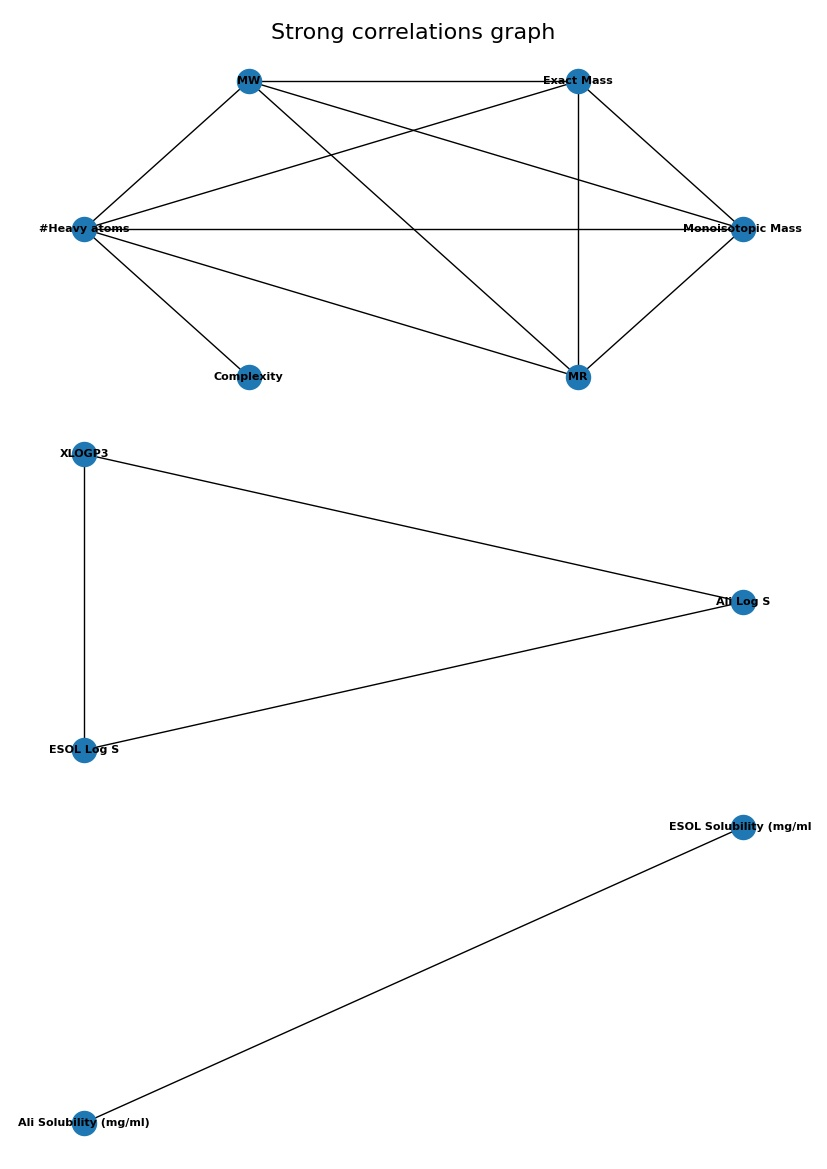
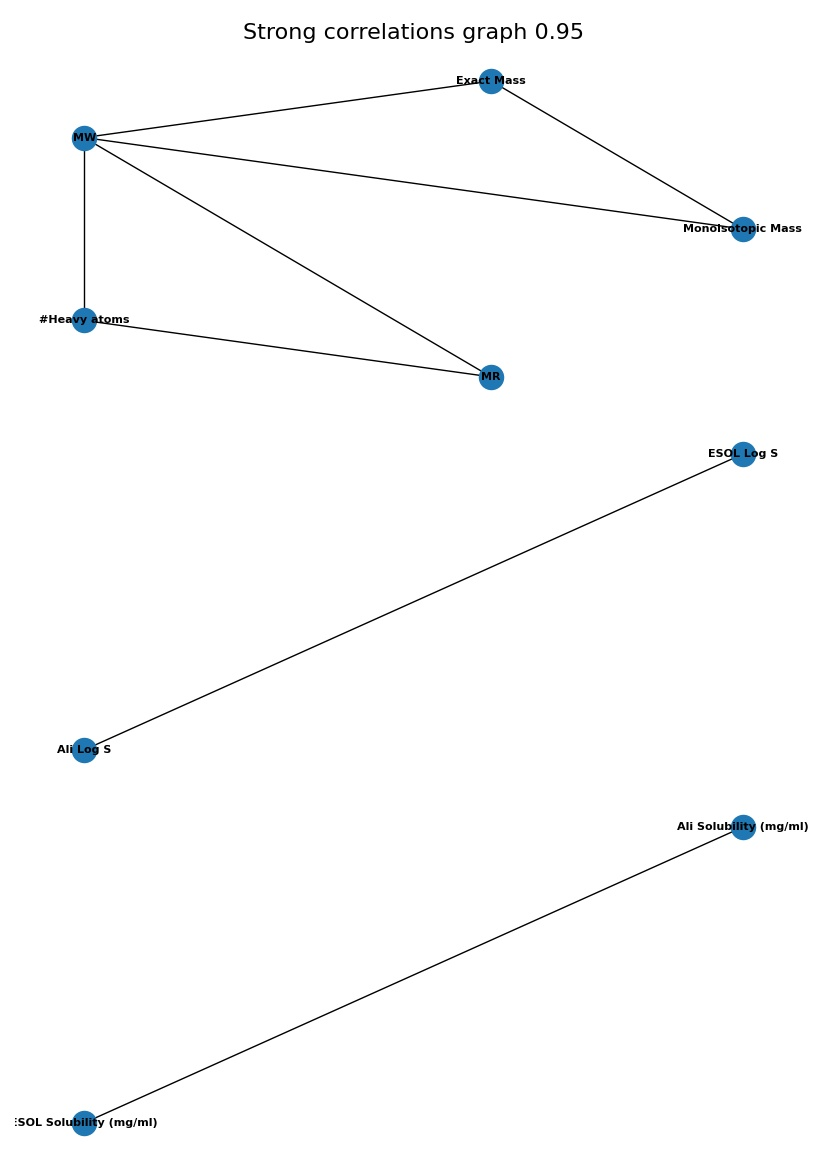
add masks

diff --git a/cleaner.py b/cleaner.py
@@ -6,8 +6,8 @@ import pandas as pd
 import seaborn as sns
 from scipy import stats
 import matplotlib.pyplot as plt
+import configparser
 import os.path
-
 import logging
 import networkx as nx
 
@@ -18,56 +18,6 @@ logging.getLogger().setLevel(logging.INFO)
 # poands discribe
 # by model analysis vuci phototox
 
-
-def log_unique_ds_count(left, right, on='Name'):
-    left_count = len(left[left[on].isin(right[on])])
-    right_count = len(right[right[on].isin(left[on])])
-    total = left_count + right_count
-    if total > 0:
-        logging.warning(f"Number of molecules not included in both datasets: {left_count + right_count}")
-
-
-def check_column_consistency(df, mapper: dict, percent_error=None):
-    for col1, col2 in mapper.items():
-        if percent_error is None:
-            is_equal = df[col1] != df[col2]
-            if not all(is_equal):
-                logging.error(
-                    f'Pubchem and swiss columns are not equal. '
-                    f'Columns "{col1}" and "{col2}" contain diffrent values by {df[~is_equal][col1].count()} rows')
-        else:
-            percent_difference = df[col2] / (df[col1] / 100)
-            difference = percent_difference < percent_error
-            if not all(difference):
-                logging.error(
-                    f'Pubchem and swiss columns are not equal. '
-                    f'Columns "{col1}" and "{col2}" differ more than {percent_error}% by '
-                    f'{df[~difference][col1].count()} rows')
-
-
-def merge_equal_columns(df):
-    int_pubchem_swiss_mapping = {'Heavy Atom Count': '#Heavy atoms', 'Hydrogen Bond Donor Count': '#H-bond donors',
-                                 'Hydrogen Bond Acceptor Count': '#H-bond acceptors',
-                                 'Rotatable Bond Count': '#Rotatable bonds'}
-    float_pubchem_swiss_mapping = {'Molecular Weight': 'MW'}
-
-    check_column_consistency(df, int_pubchem_swiss_mapping)
-    check_column_consistency(df, float_pubchem_swiss_mapping, 5)
-
-    df.drop(columns=[*int_pubchem_swiss_mapping.keys()], inplace=True)
-    df.drop(columns=[*float_pubchem_swiss_mapping.keys()], inplace=True)
-
-    return df
-
-
-def merge_pubchem_swiss(pubchem, swiss):
-    log_unique_ds_count(pubchem, swiss)
-    df = pd.merge(pubchem, swiss, how='outer', on='Name')
-    df = merge_equal_columns(df)
-    return df
-
-
-#  *************************** NEW ************************************
 def load_data(csv_file_name):
     return pd.read_csv(csv_file_name)
 
@@ -94,6 +44,8 @@ def set_proper_data_type(df):
     dtypes_columns = {col: dt for dt, columns in dtypes_columns.items() for col in columns if col in all_columns}
     df = df.astype(dtypes_columns)
 
+    df.rename(columns={'Ali Solubility (mg/ml)': 'Ali Solubility', 'ESOL Solubility (mg/ml)': 'ESOL Solubility'})
+
     return df
 
 
@@ -118,18 +70,27 @@ def remove_useless_columns(df):
 
     # remove duplicit columns in pubchem - they contain values based on bad smiles code
     punches_duplicity_columns = ['Heavy Atom Count', 'Hydrogen Bond Donor Count', 'Hydrogen Bond Acceptor Count',
-                                 'Rotatable Bond Count', 'Topological Polar Surface Area', 'Molecular Weight']
-    # todo check na tretnuti
-    logp_duplicity_columns = ['XLogP3-AA', 'XLogP3']
-    df.drop(columns=punches_duplicity_columns + logp_duplicity_columns, inplace=True)
+                                 'Rotatable Bond Count', 'Topological Polar Surface Area', 'Molecular Weight',
+                                 'XLogP3-AA', 'XLogP3']
+    df.drop(columns=punches_duplicity_columns, inplace=True)
 
     # remove duplicit columns caused by merge
     df.drop(columns=['Smiles.1', 'Name.1'], inplace=True)
     return df
 
 
-def get_correlated_descriptors_to_delete(graphs) -> list:
-    return [node for sg in graphs for i, node in enumerate(sg.nodes) if i != 0]
+def get_duplicit_correlated_descriptors(graphs, descriptors) -> list:
+    duplicit_correlated = []
+    for subgraph in graphs:
+        nodes = [node for node in subgraph.nodes]
+        nodes_without_preserve = [node for node in nodes if node not in descriptors]
+
+        if len(nodes) == len(nodes_without_preserve):
+            duplicit_correlated = duplicit_correlated + nodes[:-1]
+        else:
+            duplicit_correlated = duplicit_correlated + nodes_without_preserve
+
+    return duplicit_correlated
 
 
 def get_correlated_descriptors(df, threshold, fig_location):
@@ -158,7 +119,7 @@ def get_correlated_descriptors(df, threshold, fig_location):
     return correlations
 
 
-def create_correlation_graphs(correlations, fig_location, trashold):
+def create_correlation_graphs(correlations, fig_location, threshold):
     MG = nx.MultiGraph()
     columns = correlations.columns
 
@@ -177,7 +138,7 @@ def create_correlation_graphs(correlations, fig_location, trashold):
         nx.draw(sg, with_labels=True, font_weight='bold', font_size=8, pos=nx.circular_layout(sg), ax=axes[i])
         logging.info(f'Subgraph {i}: {nodes}')
 
-    fig.suptitle(f'Strong correlations graph {trashold}', fontsize=16)
+    fig.suptitle(f'Strong correlations graph {threshold}', fontsize=16)
 
     plt.tight_layout()
     plt.show()
@@ -188,14 +149,28 @@ def create_correlation_graphs(correlations, fig_location, trashold):
     return subgraphs
 
 
-def check_correlated_column(df, trashhold=0.9, remove=False, graph_location='./plot/correlations_grapgs.jpeg',
+def save_mask(df, mask_name, columns: [None, list] = None, mask: [None, list] = None, ):
+    if mask is None and columns is not None:
+        mask = (df == df) & (~df.columns.isin(columns))
+    elif mask is None:
+        raise KeyError('Columns or mask must be specified')
+
+    mask.to_csv(f'data/masks/{mask_name}.csv', index=False)
+
+
+def check_correlated_column(df, threshold=0.9, remove=False, preserve_columns=[],
+                            graph_location='./plot/correlations_grapgs.jpeg',
                             heatmap_location='./plot/correlations_heatmap.jpeg') -> pd.DataFrame:
-    correlations = get_correlated_descriptors(df, trashhold, heatmap_location)
-    graphs = create_correlation_graphs(correlations, graph_location, trashhold)
-    to_delete = get_correlated_descriptors_to_delete(graphs)
+
+    correlations = get_correlated_descriptors(df, threshold, heatmap_location)
+    graphs = create_correlation_graphs(correlations, graph_location, threshold)
+    duplicit_correlated = get_duplicit_correlated_descriptors(graphs, preserve_columns)
+
     if remove:
-        df.drop(to_delete, axis=1, inplace=True)
-    logging.info(f'Removing correlated columns: {to_delete}')
+        df.drop(duplicit_correlated, axis=1, inplace=True)
+        logging.info(f'Removing correlated columns: {duplicit_correlated}')
+    else:
+        save_mask(df, mask_name='correlations_' + str(threshold), columns=duplicit_correlated)
     return df
 
 
@@ -209,35 +184,62 @@ def remove_duplicits(df: pd.DataFrame, subset, keep='first'):
     return df
 
 
-def check_outliers(df, remove=False):
+def check_outliers(df, threshold=4.2, remove=False):
     numerics = ['int16', 'int32', 'int64', 'float16', 'float32', 'float64']
     df_numeric = df.select_dtypes(include=numerics)
 
-    outliers = df[~(np.abs(stats.zscore(df_numeric)) < 4.2).all(axis=1)]['Name'].unique()
-
+    outliers = df[~(np.abs(stats.zscore(df_numeric)) < threshold).all(axis=1)]['Name'].unique()
     logging.info(f'Outliners: {outliers}')
 
+    rows = ~df['Name'].isin(outliers)
+
     if remove:
-        df = df[~df['Name'].isin(outliers)]
+        df = df[rows]
         logging.info(f'Outliners {outliers} deleted.')
+    else:
+        save_mask(df, mask_name='outliers_' + str(threshold), mask=rows)
 
     return df
 
 
-def main():
-    input = 'data/merger_output/merged.csv'
-    output = 'data/cleaner_output/cleaned.csv'
+def main(input_file, output_file, correlation_threshold=0.95, outliers_threshold=4.2, preserve_columns=None,
+         remove=False):
+    if preserve_columns is None:
+        preserve_columns = []
 
-    df = load_data(input)
+    df = load_data(input_file)
     df = remove_useless_columns(df)
     df = set_proper_data_type(df)
 
-    df = check_correlated_column(df)
+    df = check_correlated_column(df, threshold=correlation_threshold, remove=remove, preserve_columns=preserve_columns)
     df = remove_duplicits(df, subset="Smiles", keep='first')
-    df = check_outliers(df)
+    df = check_outliers(df, threshold=outliers_threshold, remove=remove)
 
-    df.to_csv(output, index=False)
+    df.to_csv(output_file, index=False)
+
+
+def process_config(config_file='conf/cleaner.ini'):
+    if not os.path.exists(config_file):
+        logging.warning(f'Config file {config_file} does not exist. Running with default setting.')
+        return dict()
+
+    config = configparser.ConfigParser()
+    config.read('conf/cleaner.ini')
+    default = config['DEFAULT']
+
+    method = default['method']
+    method_dict = {'mask': False, 'remove': True}
+    try:
+        method = method_dict[method]
+    except KeyError:
+        raise ValueError('Bad value in ini file. Method can be eather "mask" of "remove".')
+
+    return {'correlation_threshold': float(default['correlation_threshold']),
+            'outliers_threshold': float(default['outliers_threshold']),
+            'preserve_columns': default['preserve_columns'],
+            'remove': method}
 
 
 if __name__ == "__main__":
-    main()
+    args = process_config('conf/cleaner.ini')
+    main('data/merger_output/merged.csv', 'data/cleaner_output/cleaned.csv', **args)
